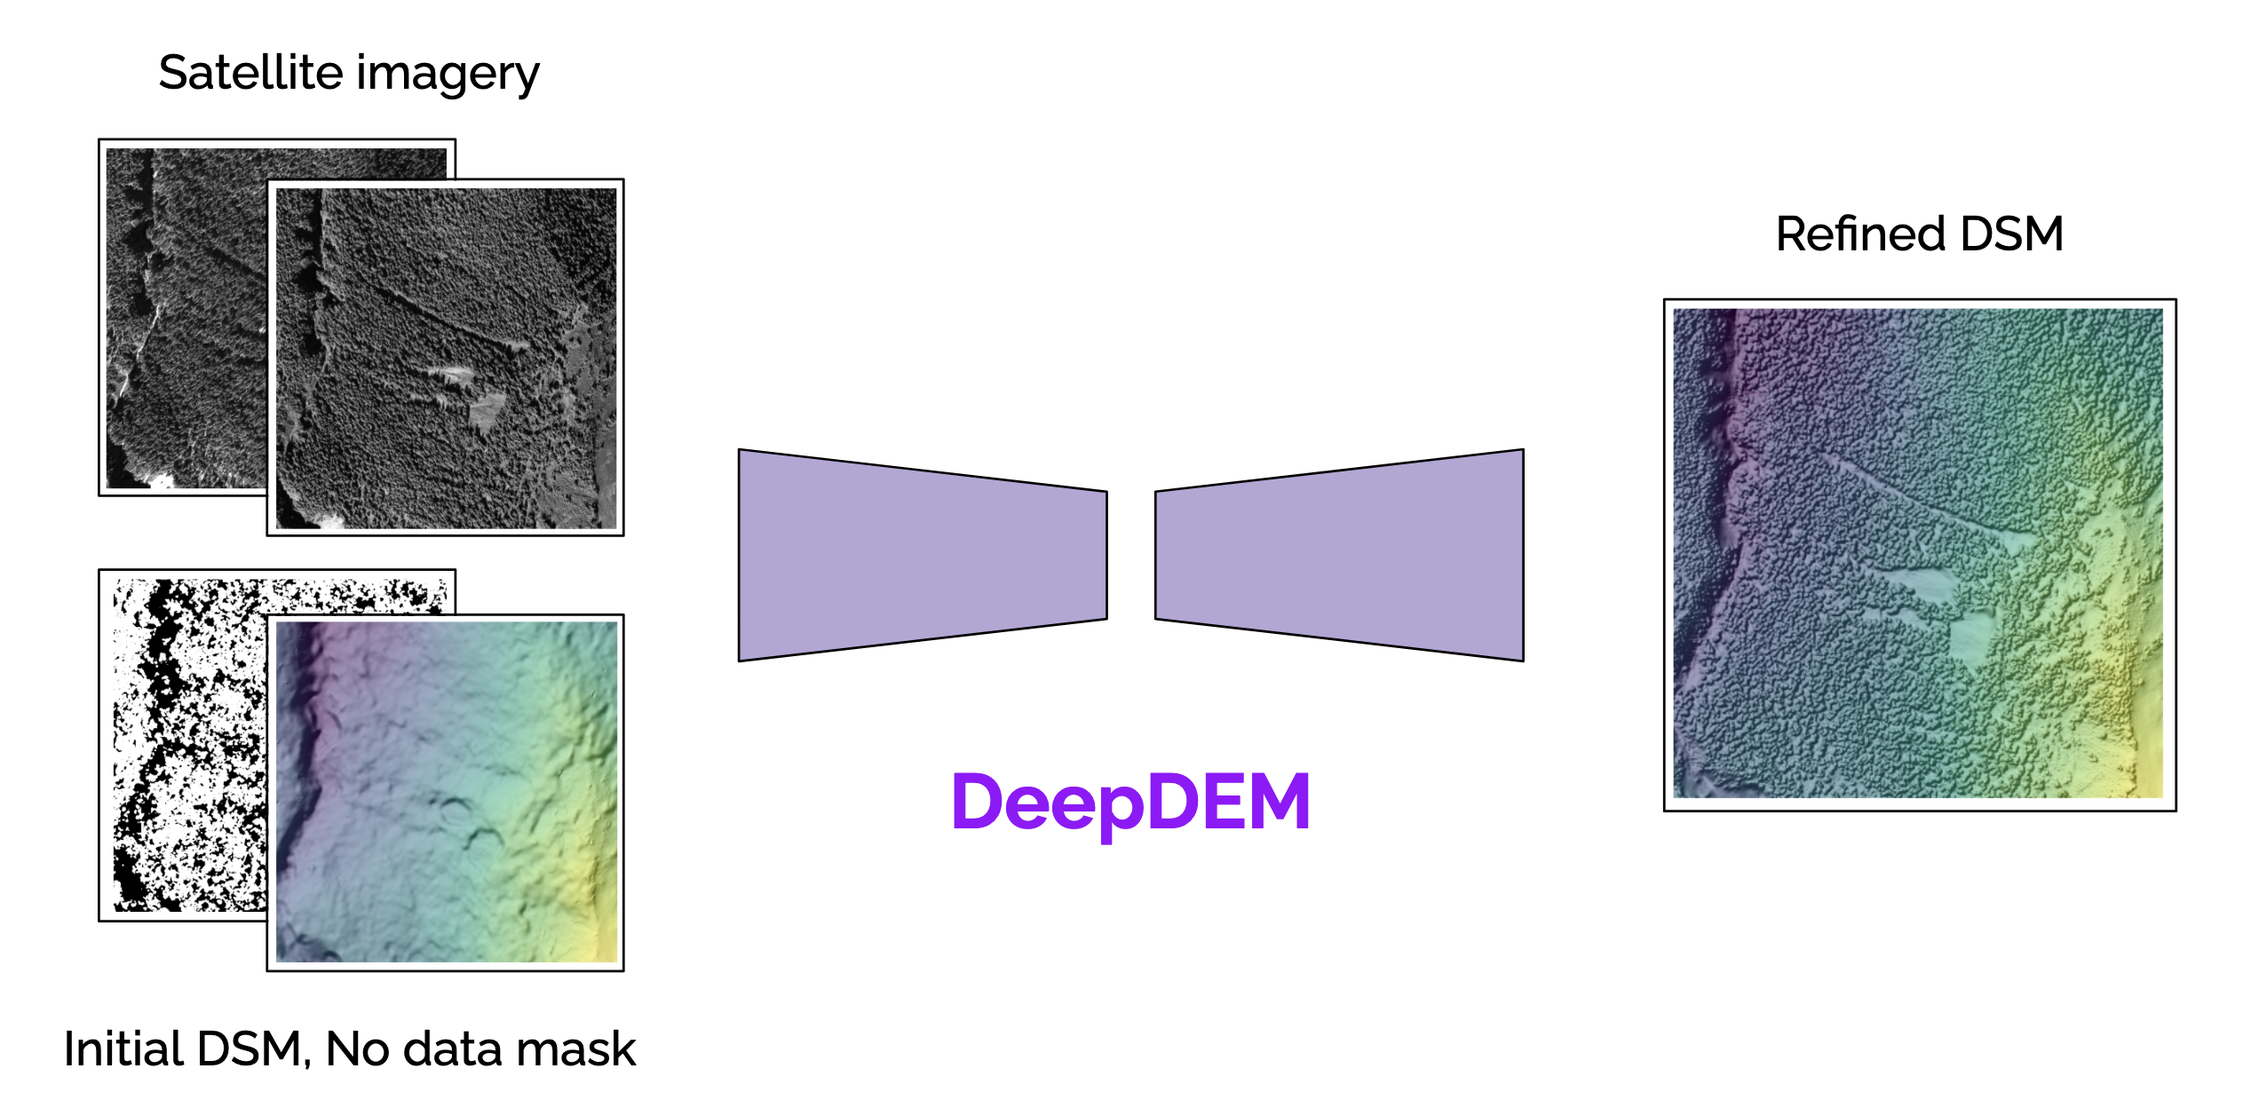
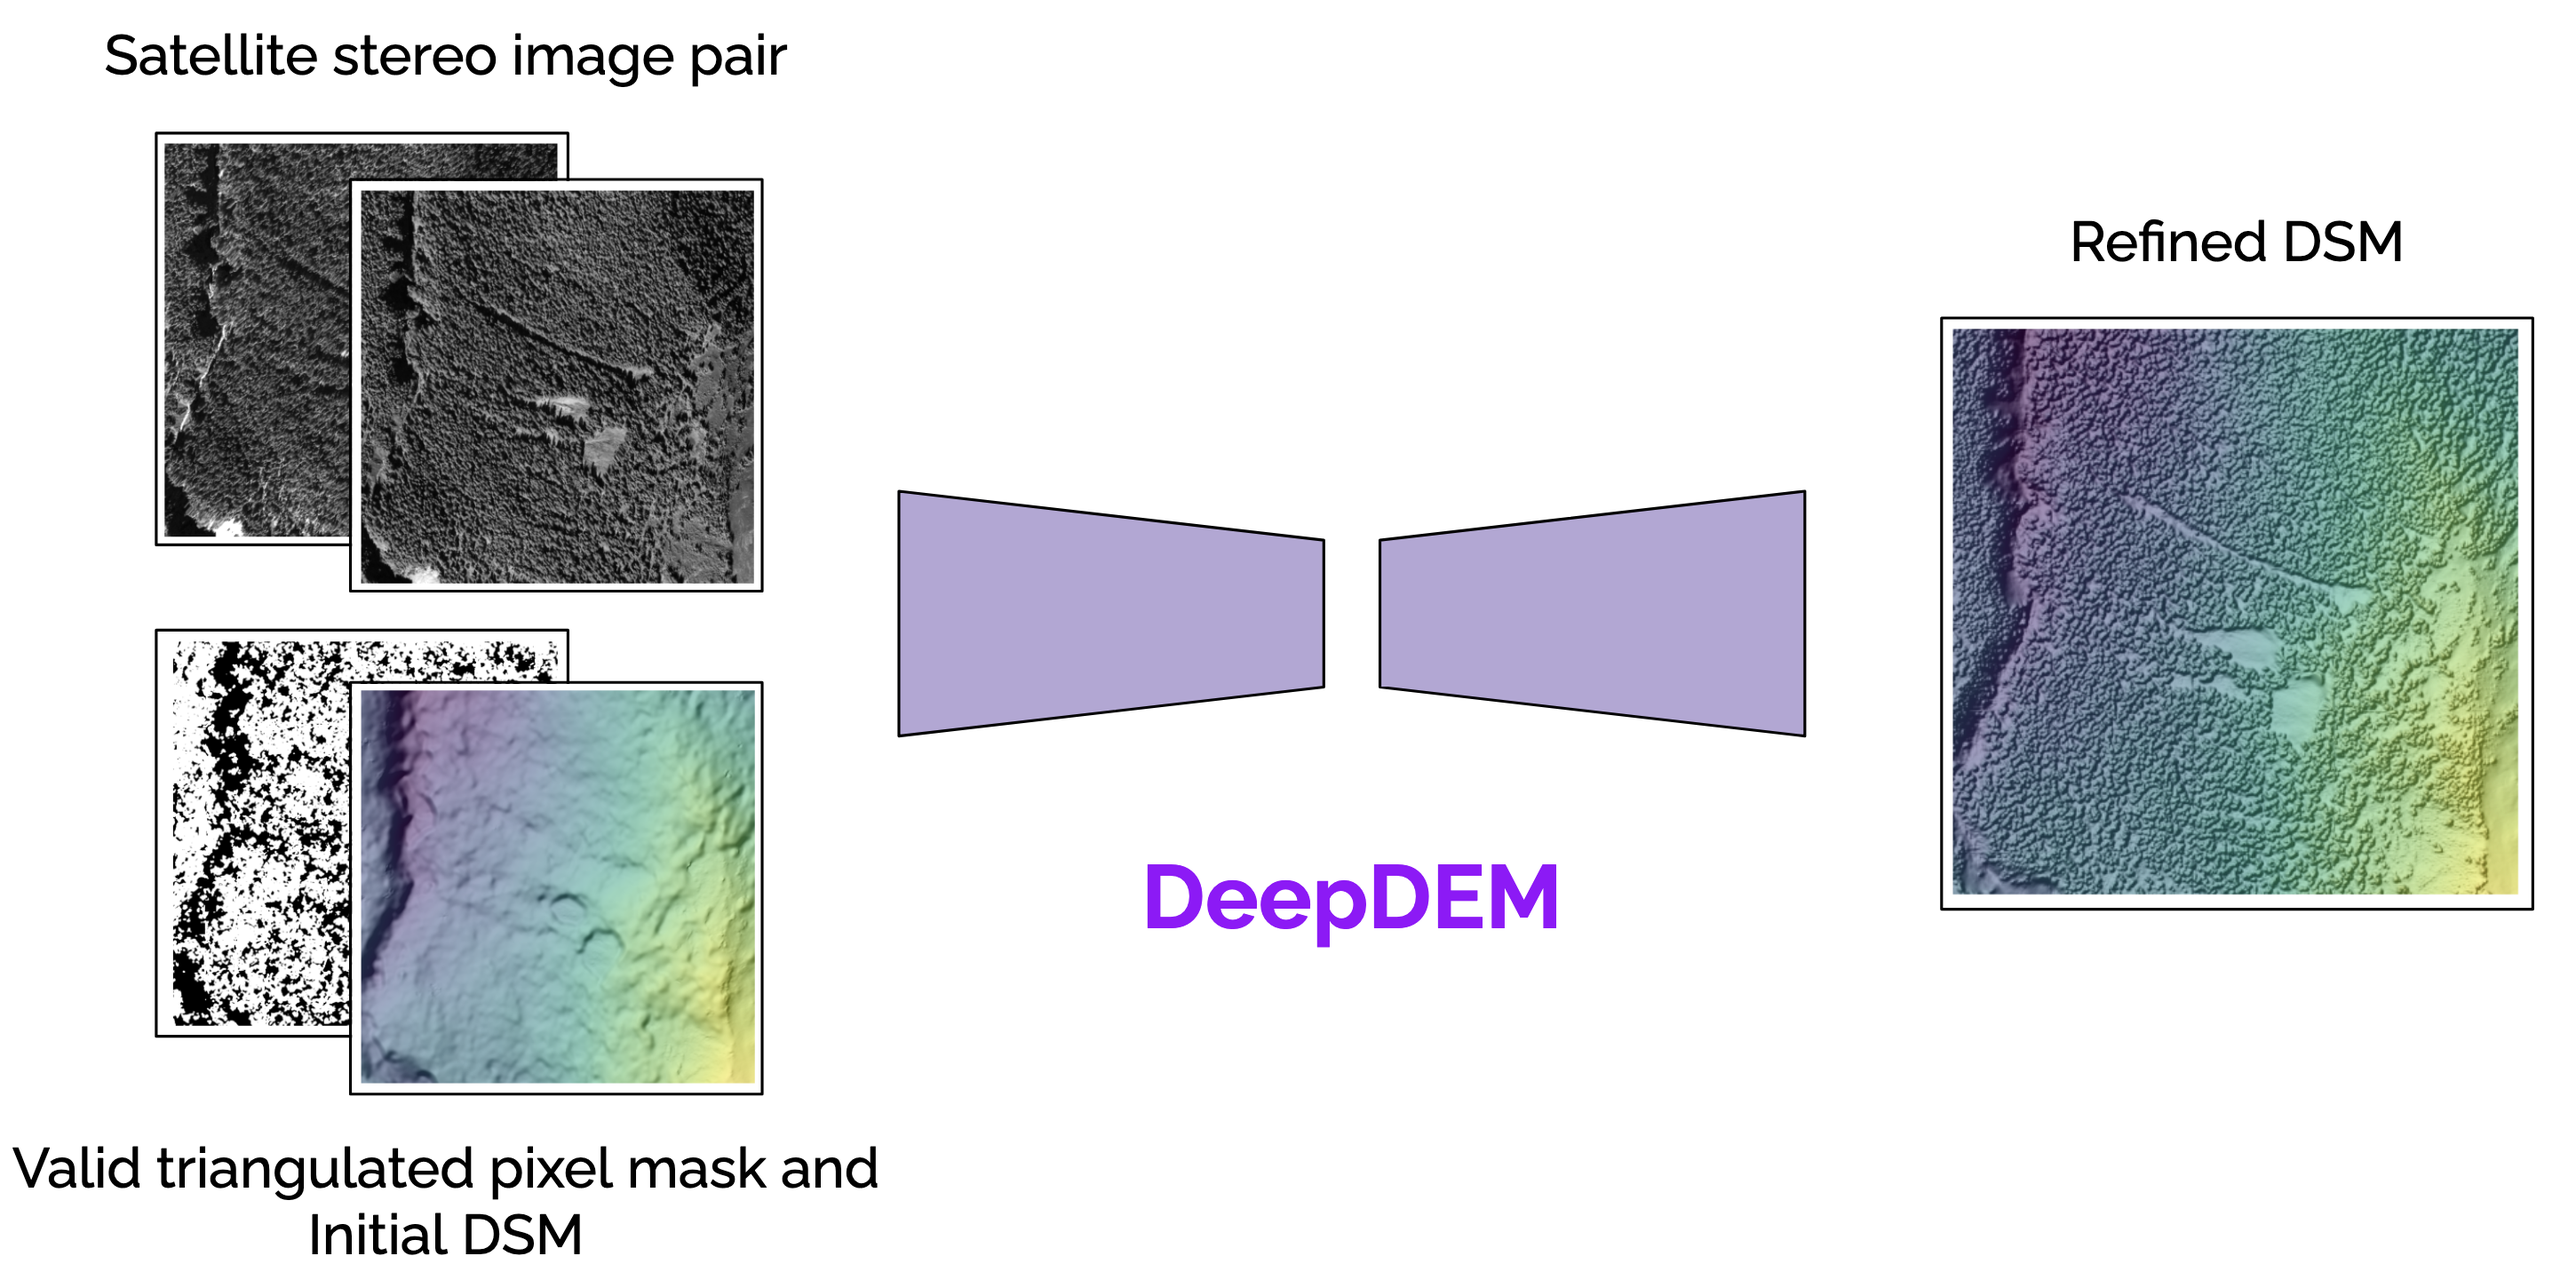
update figure and minor fix to text

Changed region(s): [[0.0, 0.0312, 0.9937, 1.0], [0.4037, 0.6562, 0.6211, 0.75]]

diff --git a/README.md b/README.md
@@ -5,14 +5,12 @@ This repository demonstrates the use of deep learning as an intelligent post-pro
 <img src="docs/DeepDEM block diagram.png" width="800">
 </p>
 
-DeepDEM uses a UNet architecture with a ResNet based echoder to perform residual refinement for digital surface models. The model accepts orthorectified stereo satellite images and an initial DSM estimate (along with other ancilliary inputs) and calculates residuals that minimize the L1 loss when comparing model outputs to ground truth generated from LIDAR data.
+DeepDEM uses a UNet architecture with a ResNet based encoder to perform residual refinement for digital surface models. The model accepts orthorectified stereo satellite images and an initial DSM estimate (along with other ancilliary inputs) and calculates residuals that minimize the L1 loss when comparing the initial DSM to ground truth generated from LIDAR data.
 
-### Overview of repository
+## Overview of repository
 This repository contains code in the form of Jupyter notebooks and Python scripts needed to train and generate inferences from satellite imagery and initial DSM estimates. It is assumed that the user has access to stereo satellite imagery and is familar with stereogrammetry tools (we use the [Ames Stereo Pipeline software package](https://stereopipeline.readthedocs.io/en/latest/introduction.html)) to generate the inputs needed for DeepDEM.
 
-#### Notebooks
-
-#### Scripts and modules
+## Using this repository
 
 ### Installing dependencies
 The included environment file can be used to create an conda environment containing dependencies needed to run the codes in this repository. We recommend using [`mamba`](https://github.com/conda-forge/miniforge) to speed up the install process. The environment is created and activated by the following commands from the root directory of the repository:
@@ -22,8 +20,14 @@ mamba env create -f environment.yml
 ...
 mamba activate deep_dem
 ```
+### Prerequisites
 
-### Training models
+### Notebooks
+The notebooks 
+
+### Scripts and modules
+
+### Training new models
 
 ### Generating inferences
 
@@ -36,6 +40,7 @@ Code in this repository can be used to train new models, as well as genenrate in
 
 # Paper
 
+# 
 
-### Additional notes
+## Additional notes
 This work is based on the [ResDepth](https://github.com/prs-eth/ResDepth/) work of Stucker et al. (2021), but extends the application to vegetation and natural surfaces and uses LIDAR data as a source of ground truth in place of well defined CAD models. The work here also demonstrates using this approach to generate Digital Terrain Models (DTM) from satellite imagery and and an initially derived DSM. We also explore the utility of additional input layers, self consistent orthorectification, and improved network architectures towards refining initial estimates of DSMs generated using photogrammetry.
